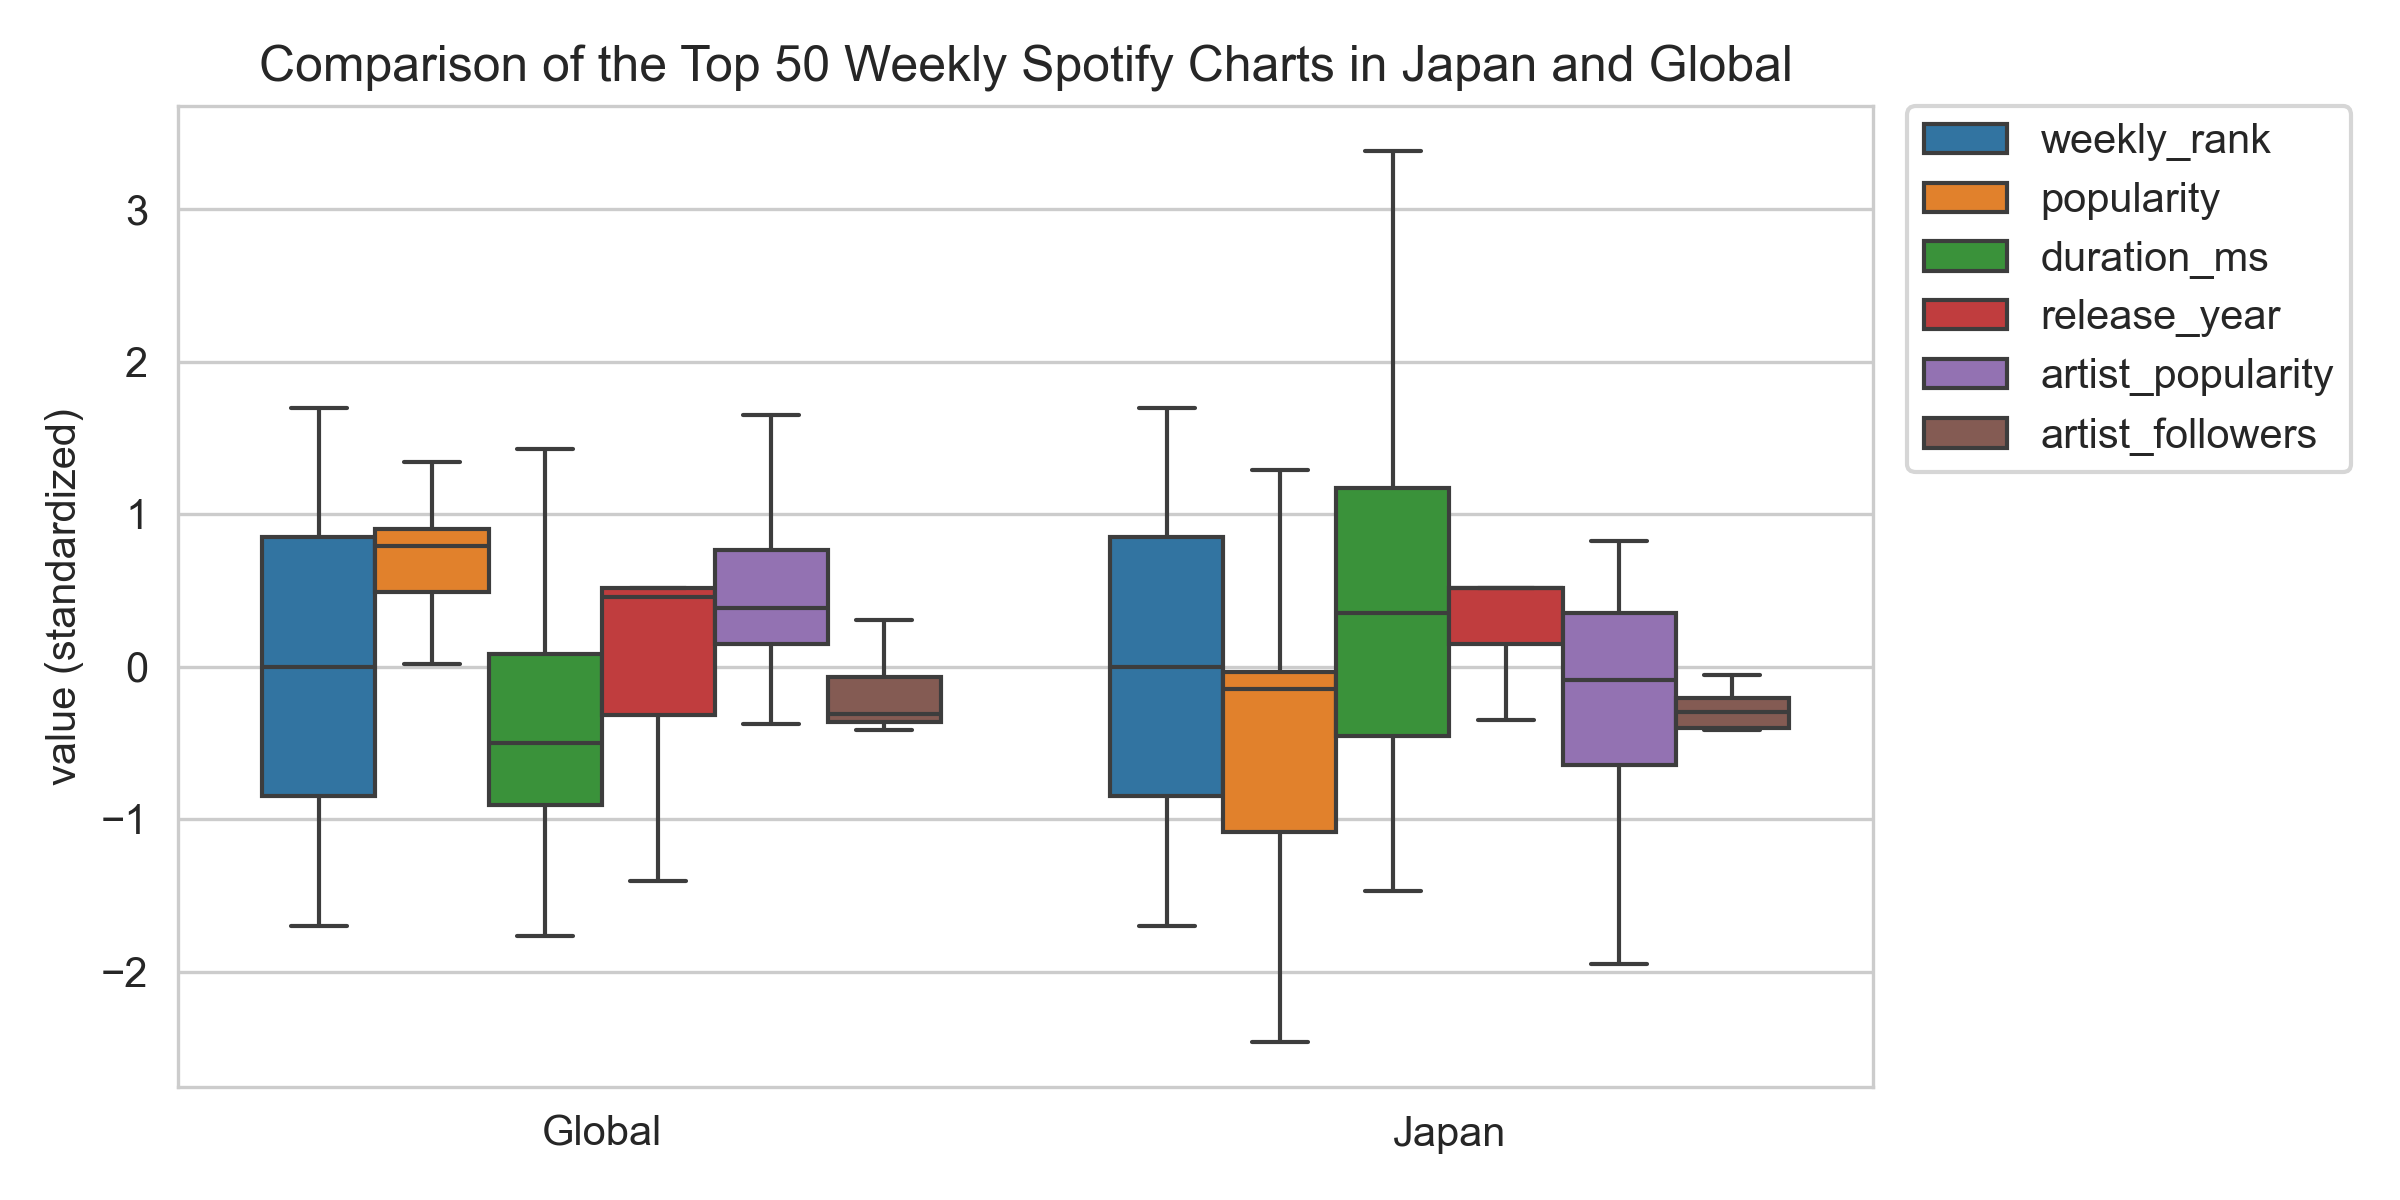
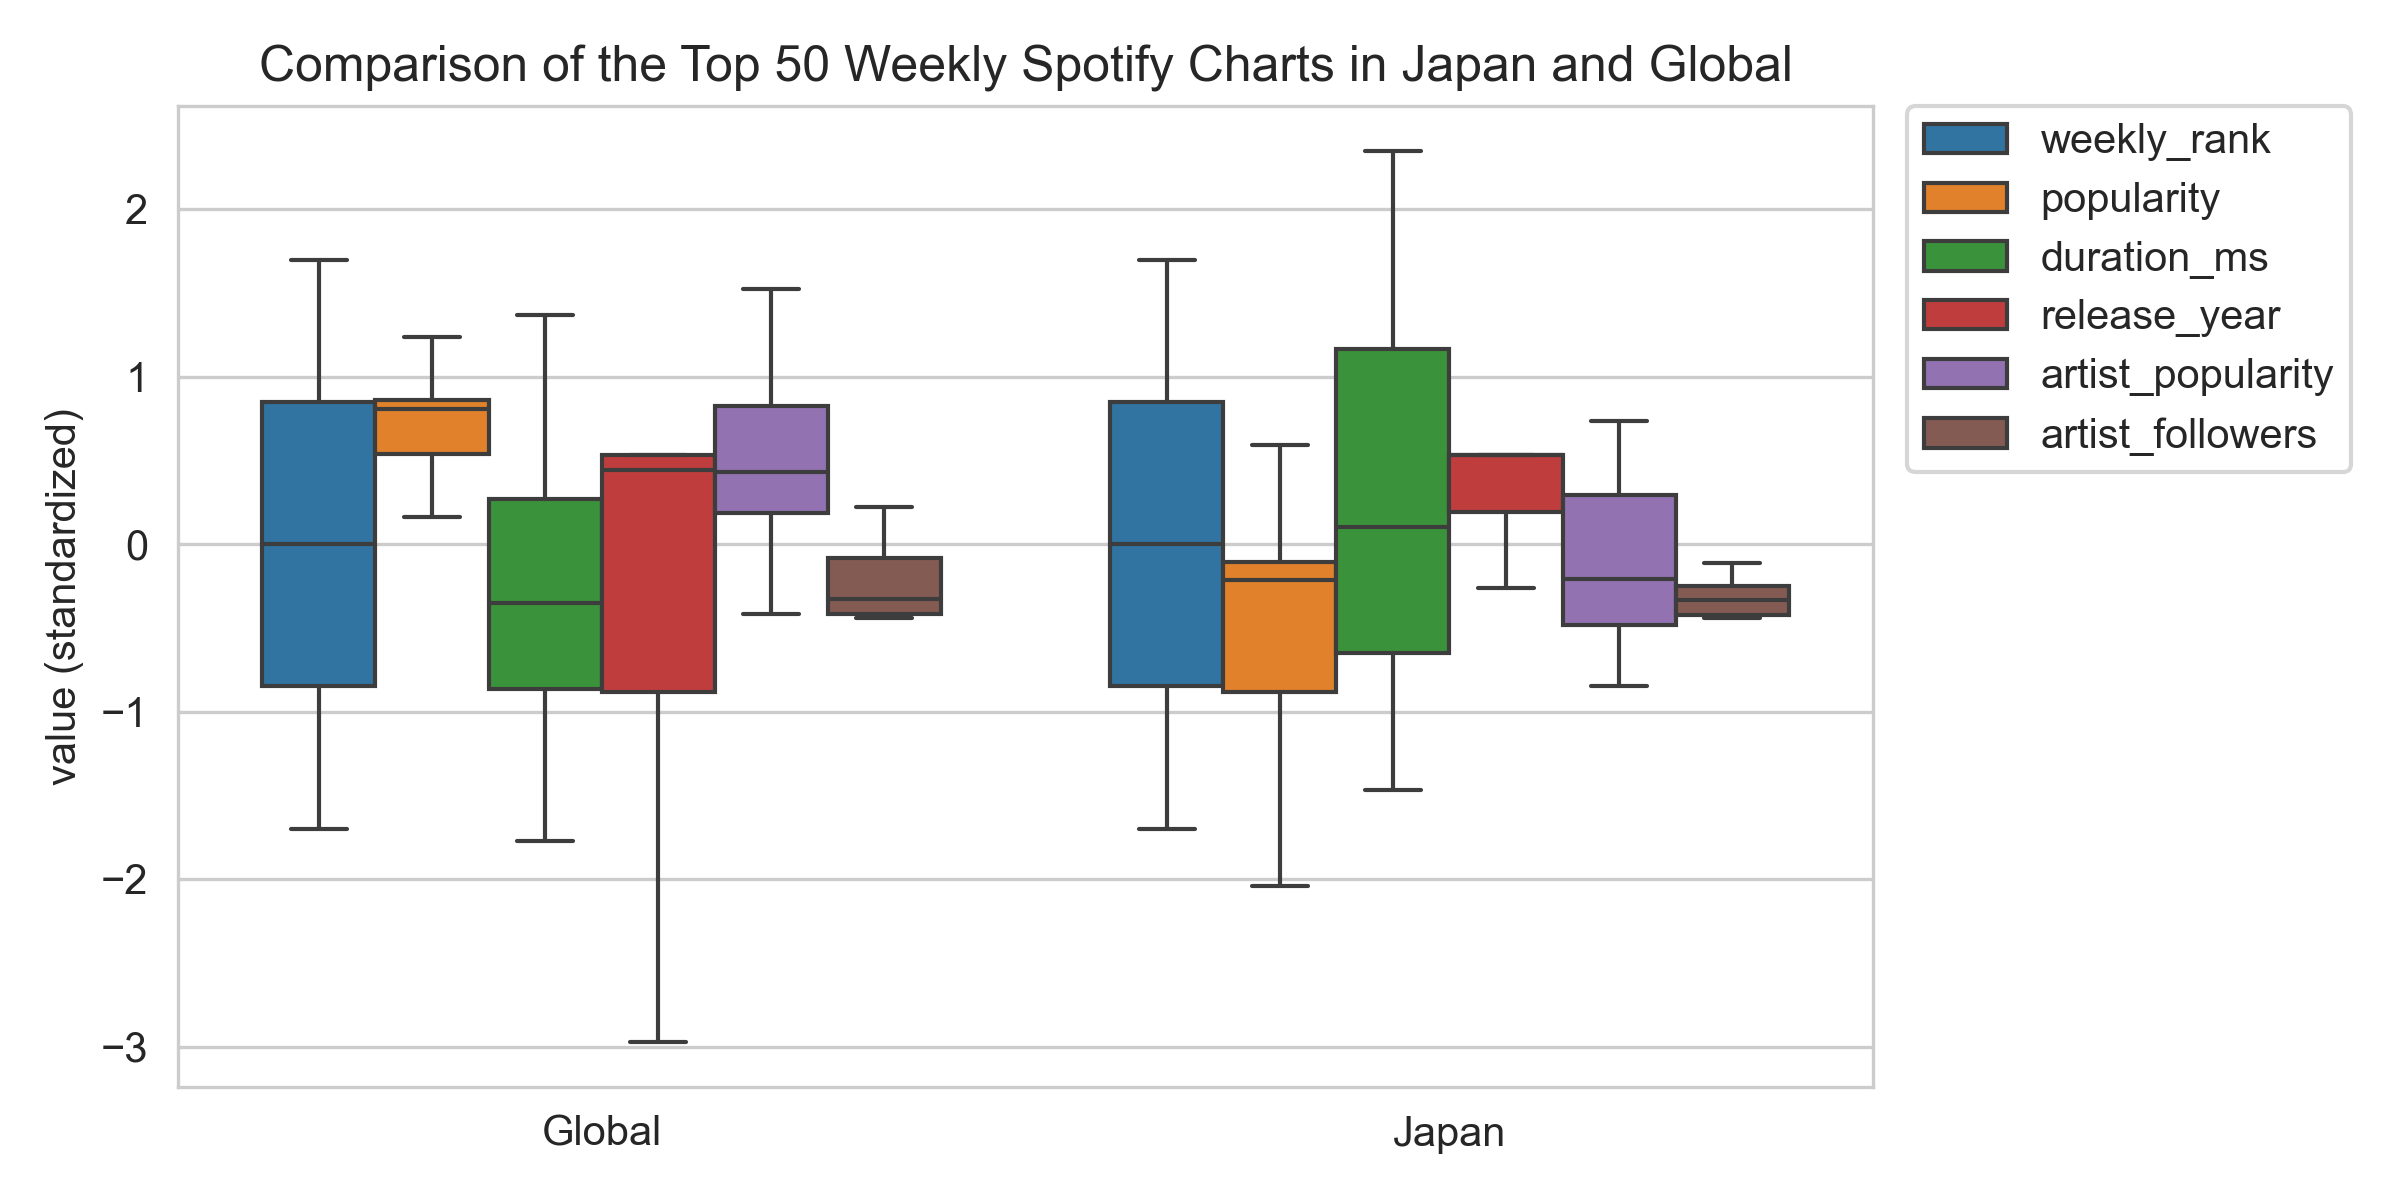
提出用 get_data_spotify.py 完成; 残りはレポートを書く

diff --git a/prog_spe2/report1/get_data_spotify.py b/prog_spe2/report1/get_data_spotify.py
@@ -1,0 +1,76 @@
+import spotipy
+from spotipy.oauth2 import SpotifyClientCredentials
+import pandas as pd
+from datetime import date
+
+# Spotify API 認証
+CLIENT_ID = "xxx"
+CLIENT_SECRET = "xxx"
+
+sp = spotipy.Spotify(
+    auth_manager=SpotifyClientCredentials(
+        client_id=CLIENT_ID,
+        client_secret=CLIENT_SECRET
+    )
+)
+
+# Japan / Global のプレイリストID
+playlist_ids = {
+    "Japan": "2s46ODpS4wZTb3OW7xnrLK",
+    "Global": "5FN6Ego7eLX6zHuCMovIR2",
+}
+
+# プレイリストから楽曲情報を取得
+def get_playlist_tracks(playlist_ids, market="JP"):
+    rows = []
+
+    for country in playlist_ids:
+        # プレイリスト取得
+        playlist = sp.playlist(playlist_ids[country], market=market)
+        items = playlist["tracks"]["items"]
+
+        for rank, item in enumerate(items, start=1):
+            track = item["track"]
+
+            # 楽曲情報
+            track_name = track["name"]
+            popularity = track["popularity"]
+            duration_ms = track["duration_ms"]
+
+            # リリース年
+            release_date = track["album"]["release_date"]
+            release_year = int(release_date[:4])
+
+            # アーティスト情報
+            artist = track["artists"][0]
+            artist_name = artist["name"]
+            artist_id = artist["id"]
+
+            artist_info = sp.artist(artist_id)
+            artist_popularity = artist_info["popularity"]
+            artist_followers = artist_info["followers"]["total"]
+
+            # 1行分のデータを追加
+            rows.append({
+                "country": country,
+                "weekly_rank": rank,
+                "track_name": track_name,
+                "artist_name": artist_name,
+                "popularity": popularity,
+                "duration_ms": duration_ms,
+                "release_year": release_year,
+                "artist_popularity": artist_popularity,
+                "artist_followers": artist_followers,
+            })
+
+    return pd.DataFrame(rows)
+
+# 実行
+if __name__ == "__main__":
+    df = get_playlist_tracks(playlist_ids, market="JP")
+
+    today = date.today().isoformat()
+    filename = f"spotify_top50_japan_global_{today}.csv"
+
+    df.to_csv(filename, index=False, encoding="utf-8-sig")
+    print(f"Saved: {filename}")

diff --git a/prog_spe2/report1/analysis.py b/prog_spe2/report1/analysis.py
@@ -6,7 +6,7 @@ import seaborn as sns
 from scipy.stats import pearsonr, ttest_ind, linregress
 
 # CSV ファイル名
-INPUT_CSV = 'spotify_meta.csv'
+INPUT_CSV = 'spotify_top50_japan_global_2025-12-13.csv'
 
 # 出力ディレクトリ作成
 os.makedirs('figure', exist_ok=True)
@@ -30,9 +30,9 @@ def print_corr(df_both, df_japan, df_global):
     r_both, _ = pearsonr(df_both[x_col], df_both[y_col])
 
     print('=== 曲の長さとリリース年の相関係数 ===')
-    print(f'  {"r(Japan)":18s} = {r_japan:8.4f}')
-    print(f'  {"r(Global)":18s} = {r_global:8.4f}')
-    print(f'  {"r(Japan + Global)":18s} = {r_both:8.4f}')
+    print(f'  {'r(Japan)':18s} = {r_japan:8.4f}')
+    print(f'  {'r(Global)':18s} = {r_global:8.4f}')
+    print(f'  {'r(Japan + Global)':18s} = {r_both:8.4f}')
     
 # Japan + Global の線形回帰
 def regression_both(df_both):
@@ -43,10 +43,10 @@ def regression_both(df_both):
 
     print('\n=== 線形回帰 (Japan + Global) ===')
     print('duration_s = a * release_year + b としたとき、')
-    print(f'  {"a":3s} = {result.slope/1000:11.3f} [s/year]')
-    print(f'  {"b":3s} = {result.intercept/1000:11.3f} [s]')
-    print(f'  {"r":3s} = {result.rvalue:11.3f}')
-    print(f'  {"p":3s} = {result.pvalue:11.3e}')
+    print(f'  {'a':3s} = {result.slope/1000:11.3f} [s/year]')
+    print(f'  {'b':3s} = {result.intercept/1000:11.3f} [s]')
+    print(f'  {'r':3s} = {result.rvalue:11.3f}')
+    print(f'  {'p':3s} = {result.pvalue:11.3e}')
 
 # Japan の線形回帰
 def regression_japan(df_japan):
@@ -57,10 +57,10 @@ def regression_japan(df_japan):
 
     print('\n=== 線形回帰 (Japan) ===')
     print('duration_s = a * release_year + b としたとき、')
-    print(f'  {"a":3s} = {result.slope/1000:11.3f} [s/year]')
-    print(f'  {"b":3s} = {result.intercept/1000:11.3f} [s]')
-    print(f'  {"r":3s} = {result.rvalue:11.3f}')
-    print(f'  {"p":3s} = {result.pvalue:11.3e}')
+    print(f'  {'a':3s} = {result.slope/1000:11.3f} [s/year]')
+    print(f'  {'b':3s} = {result.intercept/1000:11.3f} [s]')
+    print(f'  {'r':3s} = {result.rvalue:11.3f}')
+    print(f'  {'p':3s} = {result.pvalue:11.3e}')
 
 # Japan と Global の t検定
 def run_ttests(df_japan, df_global):
